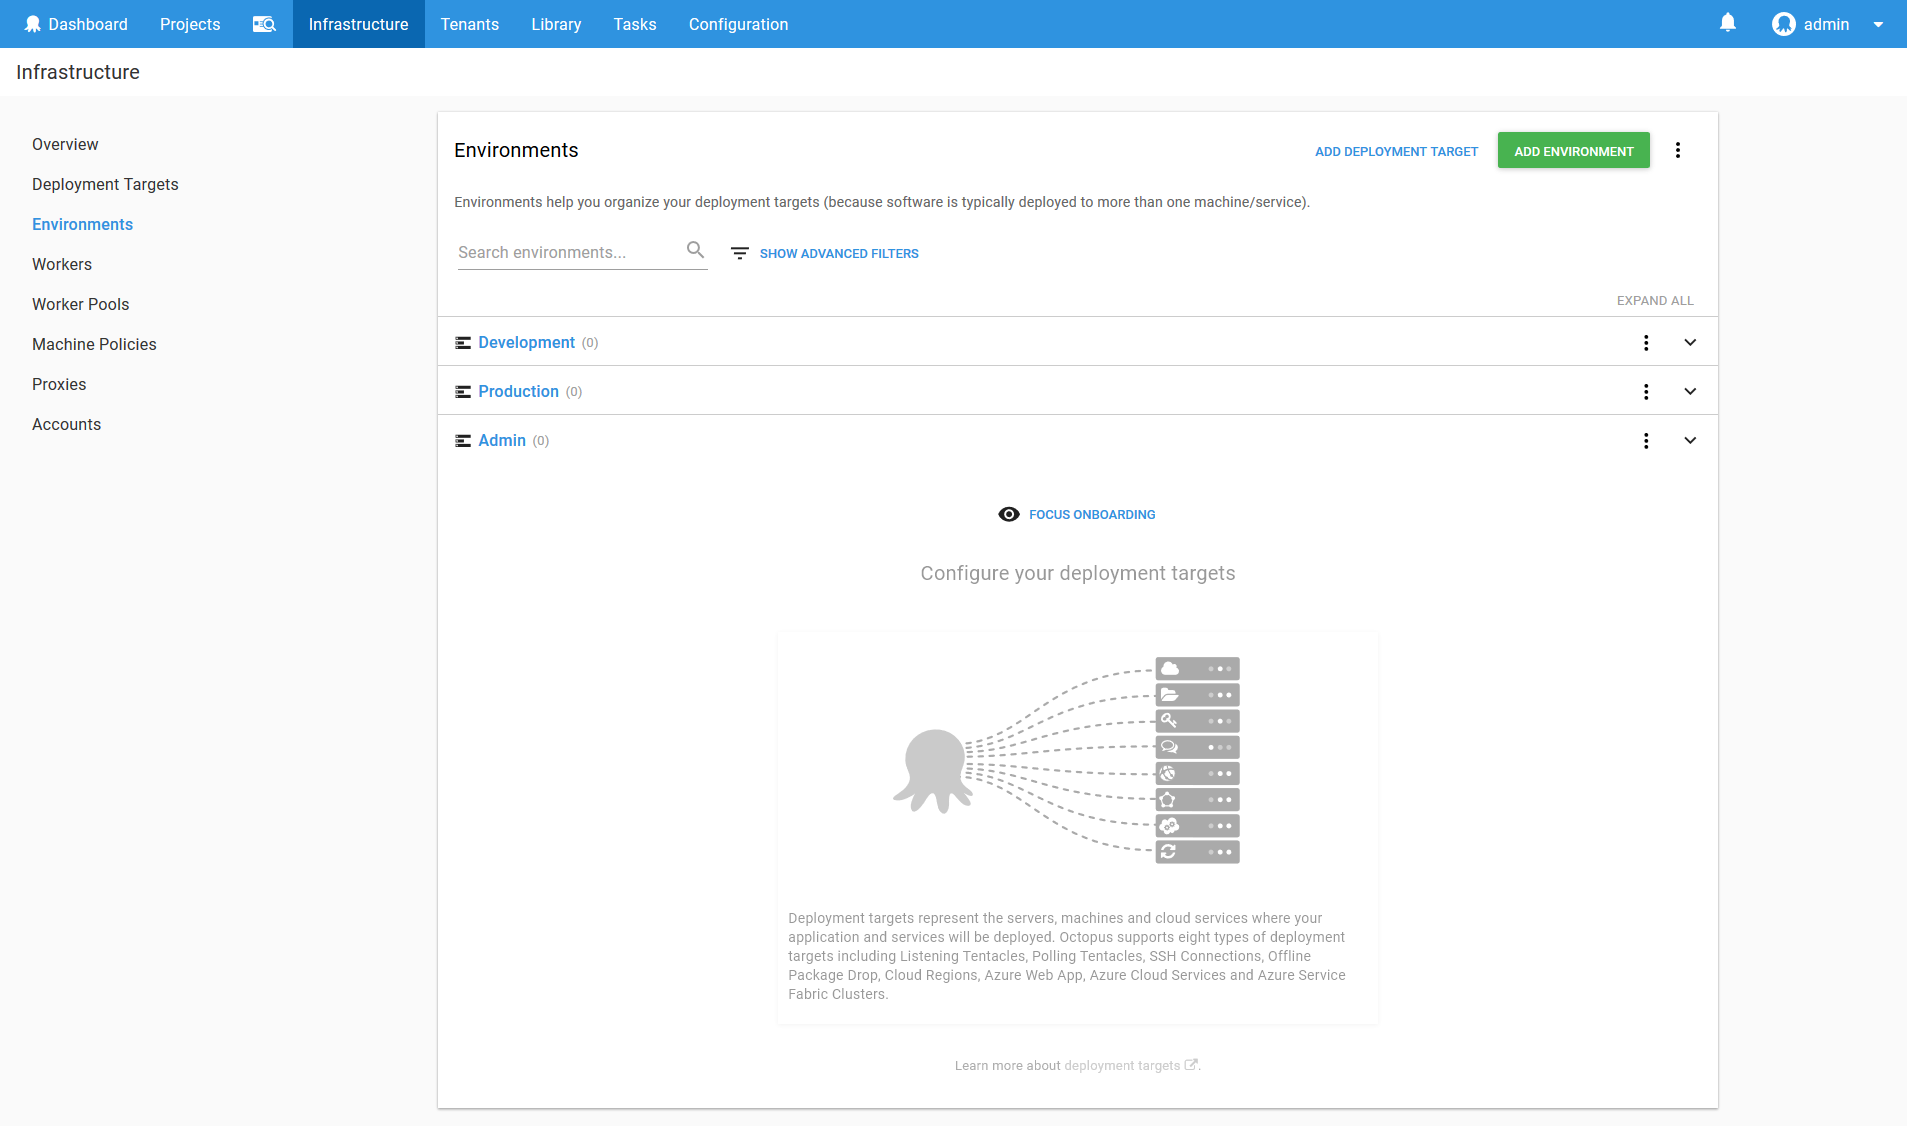
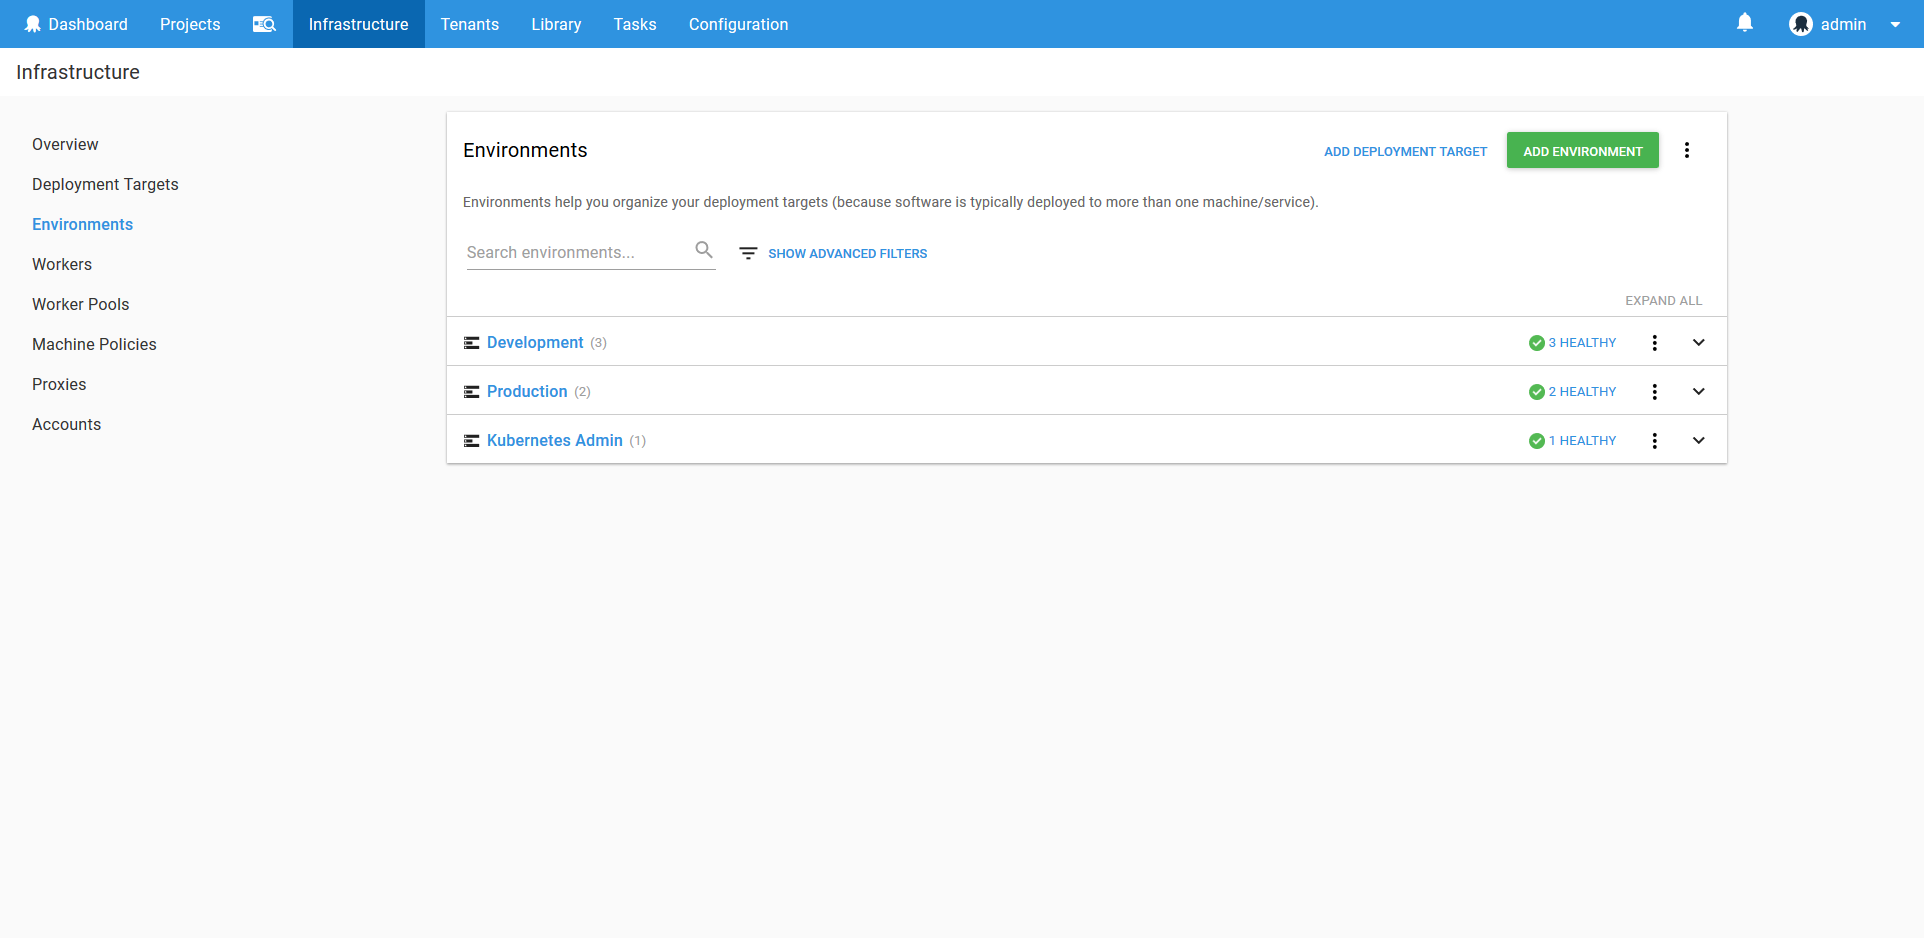
Renamed the targets and lifecycles, and updates screenshots

diff --git a/blog/2018-08/kubernetes.md b/blog/2018-08/kubernetes.md
@@ -71,7 +71,7 @@ Learn more about Docker feeds [here](https://octopus.com/docs/packaging-applicat
 
 ## The Environments
 
-Although we listed two environments as requirements, we'll actually create three. The additional environment, called Admin, will be where we run utility scripts to create user accounts.
+Although we listed two environments as requirements, we'll actually create three. The additional environment, called `Kubernetes Admin`, will be where we run utility scripts to create user accounts.
 
 Learn more about environments [here](https://octopus.com/docs/infrastructure/environments).
 
@@ -85,13 +85,13 @@ To model the progression from Development to Production, we'll create a lifecycl
 
 ![Application Lifecycle](kubernetes-application-lifecycle.png)
 
-To model the scripts run against the Kubernetes cluster, we'll create a lifecycle called Admin. It will contain a single phase for deployments to the Admin environment.
+To model the scripts run against the Kubernetes cluster, we'll create a lifecycle called Admin. It will contain a single phase for deployments to the `Kubernetes Admin` environment.
 
 ![Admin Lifecycle](kubernetes-admin-lifecycle.png)
 
 Learn more about lifecycles [here](https://octopus.com/docs/deployment-process/lifecycles).
 
-## The Admin Target
+## The Kubernetes Admin Target
 
 A Kubernetes target in Octopus is conceptually a permission boundary within a Kubernetes cluster. It defines this boundary using a Kubernetes namespace and a Kubernetes account.
 
@@ -101,7 +101,7 @@ In keeping with the practise of least privilege, each namespace will have a corr
 
 The combination of a namespace and a service account that is limited to the namespace makes up a typical Octopus Kubernetes target.
 
-Having said that, we need some place to start in order to create the namespaces and service accounts, and for that we will create a Kubernetes target with the administrator credentials that deploys to the Admin environment.
+Having said that, we need some place to start in order to create the namespaces and service accounts, and for that we will create a Kubernetes target with the administrator credentials that deploys to the `Kubernetes Admin` environment.
 
 First, we need to create an account that holds the administrator user credentials. The Kubernetes cluster in Google Cloud provides a user called `admin` with a randomly generated password that we can use.
 
@@ -147,11 +147,11 @@ Learn more about certificates [here](https://octopus.com/docs/deployment-example
 
 ![Kubernetes Certificate](kubernetes-certificate.png)
 
-With the user account and the certificate saved, we can now create the Kubernetes target called Admin.
+With the user account and the certificate saved, we can now create the Kubernetes target called `Kubernetes Admin`.
 
-This target will deploy to the Admin environment, and take on a role that is also called Admin. The account will be the Admin account we created above, and the cluster certificate will reference the certificate we saved above.
+This target will deploy to the `Kubernetes Admin` environment, and take on a role that is called Admin. The account will be the `Kubernetes Admin` account we created above, and the cluster certificate will reference the certificate we saved above.
 
-Because this Admin target will be used to run utility scripts, we don't want to have it target a Kubernetes namespace, so that field is left blank.
+Because this `Kubernetes Admin` target will be used to run utility scripts, we don't want to have it target a Kubernetes namespace, so that field is left blank.
 
 ![Kubernetes Target](kubernetes-target.png)
 
@@ -212,7 +212,7 @@ To create these resources, we need to save the YAML as a file, and then use `kub
 
 ![Kubernetes Script Step](kubernetes-script-step.png)
 
-This step will then target the Admin Kubernetes target, and run the following script, which saves the YAML to a file and then uses `kubectl` to apply the YAML.
+This step will then target the `Kubernetes Admin` target, and run the following script, which saves the YAML to a file and then uses `kubectl` to apply the YAML.
 
 ```PowerShell
 Set-Content -Path serviceaccount.yml -Value @"
